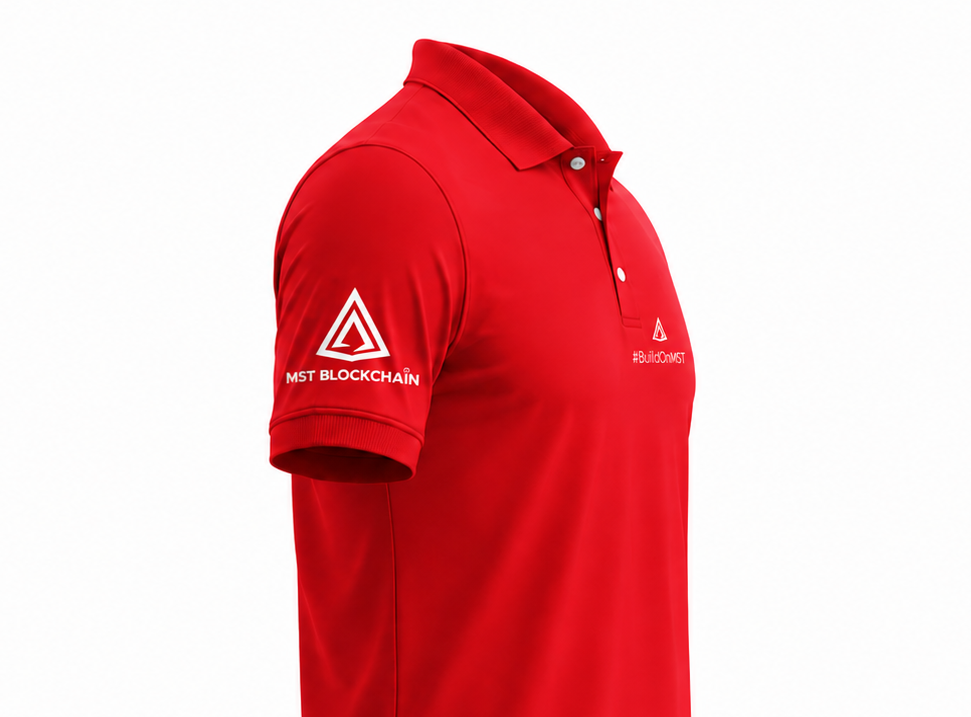
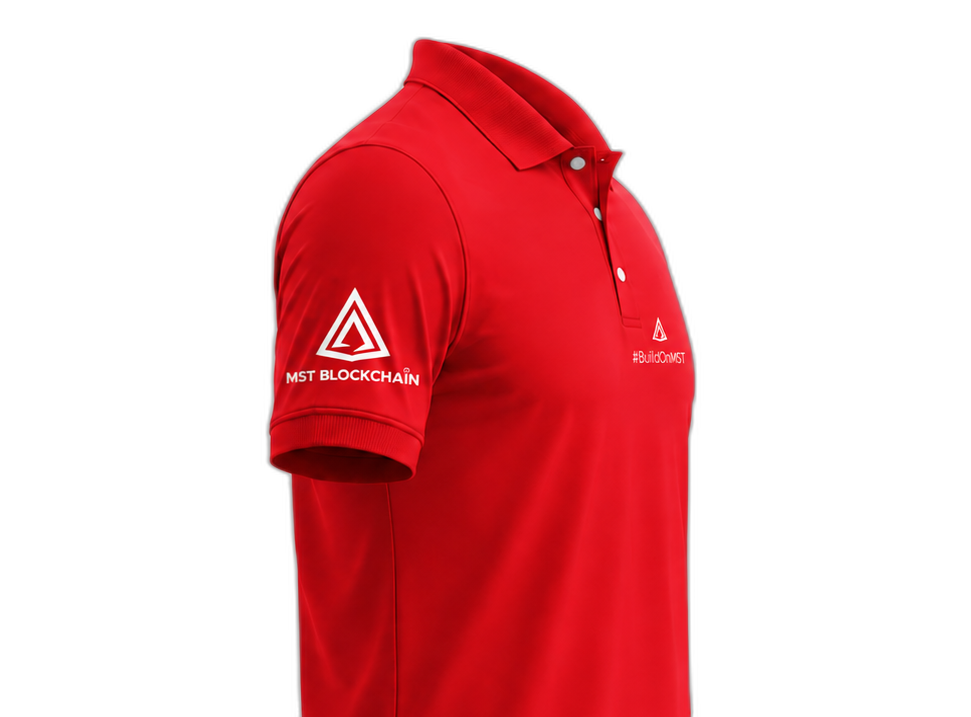
updated images

diff --git a/components/home/CollectionShowcase.tsx b/components/home/CollectionShowcase.tsx
@@ -12,55 +12,67 @@ export default function CollectionShowcase({ collections }: CollectionShowcasePr
   if (!collections || collections.length === 0) return null;
 
   return (
-    <section id="collections" className="py-16 md:py-24 bg-[#FAF7F2] border-b border-[#E8E2D8]">
+    <section id="collections" className="py-10 sm:py-16 md:py-24 bg-[#FAF7F2] border-b border-[#E8E2D8]">
       <div className="max-w-[1720px] w-full mx-auto px-3 sm:px-6 lg:px-10 xl:px-12">
-        <div className="flex flex-col md:flex-row md:items-end justify-between mb-12 gap-4">
+        <div className="flex flex-col md:flex-row md:items-end justify-between mb-8 sm:mb-12 gap-3 sm:gap-4">
           <div>
             <span className="text-[11px] font-semibold uppercase tracking-[0.2em] text-[#FF2D2D]">
               Official Drops
             </span>
-            <h2 className="font-serif-editorial text-3xl sm:text-4xl text-[#1A1816] mt-1">
+            <h2 className="font-serif-editorial text-2xl sm:text-4xl text-[#1A1816] mt-1">
               Explore By Collection & Gear
             </h2>
           </div>
           <Link
             href="/shop"
-            className="text-xs font-semibold uppercase tracking-widest text-[#1A1816] hover:text-[#FF2D2D] transition flex items-center gap-1 group"
+            className="text-xs font-semibold uppercase tracking-widest text-[#1A1816] hover:text-[#FF2D2D] transition flex items-center gap-1.5 group"
           >
             <span>View Complete Catalog</span>
             <ArrowUpRight className="w-4 h-4 group-hover:translate-x-0.5 group-hover:-translate-y-0.5 transition-transform" />
           </Link>
         </div>
 
-        <div className="grid grid-cols-1 md:grid-cols-2 lg:grid-cols-4 gap-6">
+        <div className="grid grid-cols-2 lg:grid-cols-4 gap-3 sm:gap-6">
           {collections.map((col, index) => (
             <Link
               key={col._id}
               href={`/shop?collection=${col._id}`}
-              className="group relative h-96 rounded-sm overflow-hidden border border-[#E8E2D8] flex flex-col justify-end p-6 transition-all duration-300 hover:shadow-lg hover:border-[#D5CCC0]"
+              className="group relative flex flex-col bg-white border border-[#E8E2D8] rounded-sm overflow-hidden transition-all duration-300 hover:shadow-md hover:border-[#D5CCC0]"
             >
-              <Image
-                src={col.imageUrl}
-                alt={col.name}
-                fill
-                sizes="(max-width: 768px) 100vw, 25vw"
-                className="object-cover img-zoom-hover brightness-90 group-hover:brightness-75 transition-all duration-500"
-              />
-              <div className="absolute inset-0 bg-gradient-to-t from-black/85 via-black/30 to-transparent" />
+              {/* Image Container: Perfectly centered and contained, exactly like the Product Cards */}
+              <div className="block relative aspect-3/4 overflow-hidden bg-[#F8F5F0] flex items-center justify-center">
+                <div className="absolute inset-0 p-3 sm:p-5 flex items-center justify-center">
+                  <Image
+                    src={col.imageUrl}
+                    alt={col.name}
+                    fill
+                    sizes="(max-width: 640px) 50vw, (max-width: 1024px) 33vw, 25vw"
+                    className="object-contain object-center p-2 sm:p-3 transition-all duration-500 group-hover:scale-105"
+                  />
+                </div>
 
-              <div className="relative z-10 text-white space-y-2">
-                <span className="text-[10px] uppercase tracking-widest font-mono text-[#FF6B6B]">
-                  Collection No. 0{index + 1}
-                </span>
-                <h3 className="font-serif-editorial text-xl font-medium text-white group-hover:text-[#FAF7F2] transition">
-                  {col.name}
-                </h3>
-                <p className="text-xs text-stone-300 line-clamp-2 leading-relaxed">
-                  {col.description}
-                </p>
-                <div className="pt-2 flex items-center gap-1 text-[11px] font-semibold uppercase tracking-wider text-white group-hover:text-[#FF6B6B] transition">
+                {/* Collection Number Badge */}
+                <div className="absolute top-2.5 left-2.5 sm:top-3 sm:left-3 z-10">
+                  <span className="bg-white/95 text-[#1A1816] border border-[#E8E2D8] text-[9px] sm:text-[10px] font-bold px-2 sm:px-2.5 py-0.5 rounded-full tracking-wider uppercase shadow-xs">
+                    Drop 0{index + 1}
+                  </span>
+                </div>
+              </div>
+
+              {/* Content info below image */}
+              <div className="p-3.5 sm:p-5 flex flex-col flex-1 justify-between bg-white border-t border-[#E8E2D8]/60 space-y-2">
+                <div>
+                  <h3 className="font-serif-editorial text-base sm:text-lg font-medium text-[#1A1816] group-hover:text-[#FF2D2D] transition line-clamp-1">
+                    {col.name}
+                  </h3>
+                  <p className="text-xs text-[#5C564E] line-clamp-2 leading-relaxed mt-1">
+                    {col.description}
+                  </p>
+                </div>
+
+                <div className="pt-2 flex items-center justify-between text-[11px] sm:text-xs font-semibold uppercase tracking-wider text-[#1A1816] group-hover:text-[#FF2D2D] transition border-t border-[#E8E2D8]/40">
                   <span>Explore Pieces</span>
-                  <ArrowUpRight className="w-3.5 h-3.5" />
+                  <ArrowUpRight className="w-3.5 h-3.5 group-hover:translate-x-0.5 group-hover:-translate-y-0.5 transition-transform" />
                 </div>
               </div>
             </Link>

diff --git a/scripts/seed.ts b/scripts/seed.ts
@@ -95,10 +95,10 @@ export async function seedDatabase(customUri?: string, customDb?: string, existi
   await db.collection('collections').insertMany([
     {
       _id: colApparelId,
-      name: 'Apparel & Streetwear',
+      name: 'Apparel & T-Shirts',
       slug: 'apparel-streetwear',
-      description: 'Official 400 GSM heavyweight hoodies and 240 GSM combed compact cotton developer tees.',
-      imageUrl: '/hoddie/Hoodie 5.jpg',
+      description: 'Official 240 GSM combed compact cotton developer tees and minimalist streetwear.',
+      imageUrl: '/t-shirts/Tshirt 4.jpg',
       featured: true,
       createdAt: now,
       updatedAt: now,
@@ -217,8 +217,8 @@ export async function seedDatabase(customUri?: string, customDb?: string, existi
         { name: "Features", value: "Double-needle reinforced seams, custom metal aglets, kangaroo pocket" }
       ],
       images: [
-        { url: "/hoddie/Hoodie 5.jpg", alt: "MST Blockchain Genesis Builder Hoodie - Front View", isPrimary: true },
-        { url: "/hoddie/Hoodie 6.jpg", alt: "MST Blockchain Genesis Builder Hoodie - Detailed Back View", isPrimary: false }
+        { url: "/hoddie/Hoodie 5.png", alt: "MST Blockchain Genesis Builder Hoodie - Front View", isPrimary: true },
+        { url: "/hoddie/Hoodie 6.png", alt: "MST Blockchain Genesis Builder Hoodie - Detailed Back View", isPrimary: false }
       ]
     },
     {
@@ -251,9 +251,9 @@ export async function seedDatabase(customUri?: string, customDb?: string, existi
         { name: "Neckline", value: "1x1 lycra ribbed crew collar (anti-sagging)" }
       ],
       images: [
-        { url: "/t-shirts/Tshirt Mokeup Black.jpg", alt: "MST Developer Heavyweight T-Shirt - Stealth Black Front", isPrimary: true },
-        { url: "/t-shirts/Tshirt 3.jpg", alt: "MST Developer T-Shirt - Front Graphic View", isPrimary: false },
-        { url: "/t-shirts/Tshirt 4.jpg", alt: "MST Developer T-Shirt - Back Graphic Typography", isPrimary: false },
+        { url: "/t-shirts/Tshirt Mokeup Black.png", alt: "MST Developer Heavyweight T-Shirt - Stealth Black Front", isPrimary: true },
+        { url: "/t-shirts/Tshirt 3.png", alt: "MST Developer T-Shirt - Front Graphic View", isPrimary: false },
+        { url: "/t-shirts/Tshirt 4.png", alt: "MST Developer T-Shirt - Back Graphic Typography", isPrimary: false },
         { url: "/t-shirts/tshirt side angle.png", alt: "MST Developer T-Shirt - Side Profile Angle", isPrimary: false }
       ]
     },
@@ -287,10 +287,10 @@ export async function seedDatabase(customUri?: string, customDb?: string, existi
         { name: "Print", value: "High-density crack-resistant screen print" }
       ],
       images: [
-        { url: "/t-shirts/Tshirt Mokeup Red.jpg", alt: "MST Developer T-Shirt - Signature Red Front View", isPrimary: true },
+        { url: "/t-shirts/Tshirt Mokeup Red.png", alt: "MST Developer T-Shirt - Signature Red Front View", isPrimary: true },
         { url: "/t-shirts/tshirt side angle.png", alt: "MST Developer T-Shirt - Side Angle View", isPrimary: false },
-        { url: "/t-shirts/Tshirt 3.jpg", alt: "MST Developer T-Shirt - Detailed Graphic", isPrimary: false },
-        { url: "/t-shirts/Tshirt 4.jpg", alt: "MST Developer T-Shirt - Back Print Detail", isPrimary: false }
+        { url: "/t-shirts/Tshirt 3.png", alt: "MST Developer T-Shirt - Detailed Graphic", isPrimary: false },
+        { url: "/t-shirts/Tshirt 4.png", alt: "MST Developer T-Shirt - Back Print Detail", isPrimary: false }
       ]
     },
     {

diff --git a/components/home/Hero.tsx b/components/home/Hero.tsx
@@ -45,11 +45,11 @@ export default function Hero() {
               {/* Main Editorial Hero Image */}
               <div className="relative aspect-[4/4.9] max-h-[490px] rounded-sm overflow-hidden border border-[#D5CCC0] shadow-xl bg-[#F8F5F0] flex items-center justify-center p-3.5 sm:p-4">
                 <Image
-                  src="/t-shirts/Tshirt 3.jpg"
-                  alt="MST Blockchain Developer Heavyweight T-Shirt"
+                  src="/t-shirts/Tshirt 3.png"
+                  alt="MST Blockchain Developer Heavyweight T-Shirt - Front Graphic"
                   fill
                   priority
-                  className="object-contain object-center p-3.5 sm:p-4"
+                  className="object-contain object-center p-3.5 sm:p-5 drop-shadow-sm"
                 />
                 <div className="absolute inset-0 bg-gradient-to-t from-black/40 via-transparent to-transparent pointer-events-none" />
                 <div className="absolute bottom-3 left-3 right-3 text-white p-2.5 sm:p-3 bg-black/65 backdrop-blur-md rounded-xs border border-white/20">
@@ -64,10 +64,10 @@ export default function Hero() {
               {/* Overlapping Floating Detail */}
               <div className="hidden sm:block absolute -bottom-5 -left-7 w-36 sm:w-40 aspect-square rounded-sm overflow-hidden border-4 border-white shadow-2xl bg-[#F8F5F0] rotate-[-3deg] flex items-center justify-center p-1.5">
                 <Image
-                  src="/t-shirts/Tshirt Mokeup Black.jpg"
-                  alt="MST Developer Heavyweight T-Shirt"
+                  src="/t-shirts/Tshirt 4.png"
+                  alt="MST Developer Heavyweight T-Shirt - Back Graphic Typography"
                   fill
-                  className="object-contain object-center p-1.5"
+                  className="object-contain object-center p-2"
                 />
               </div>
             </div>
